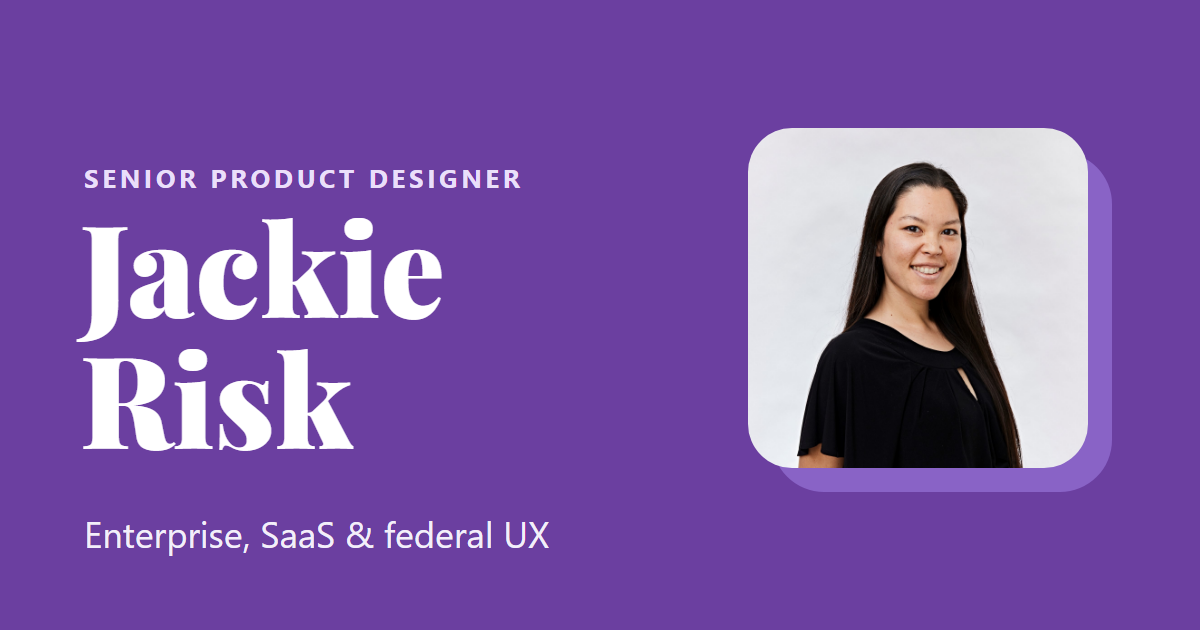
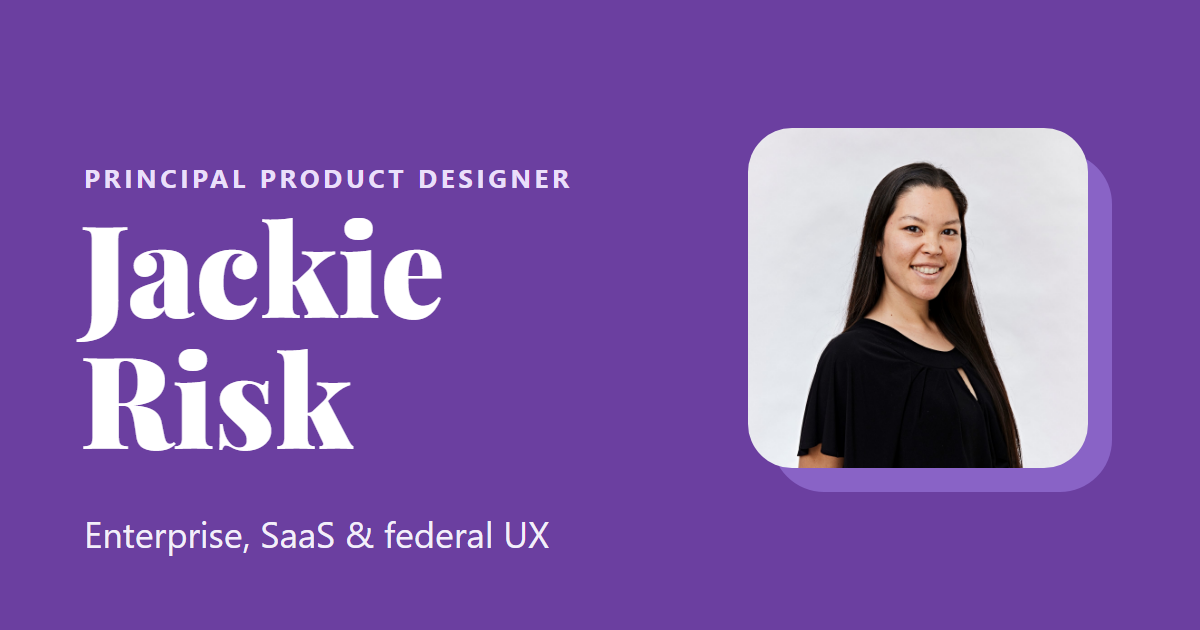
Update title to Principal Product Designer everywhere; restore Behance link
- Change the title across page titles, meta and Open Graph tags,
  structured data, the About page, llms.txt, the Pingboard role, and the
  link-preview image.
- Restore the Behance link under the case studies without a lead-in line.

Changed region(s): [[0.0617, 0.2714, 0.4933, 0.3016]]

diff --git a/index.html b/index.html
@@ -3,8 +3,8 @@
 <head>
   <meta charset="UTF-8">
   <meta name="viewport" content="width=device-width, initial-scale=1.0">
-  <title>Jackie Risk | Senior Product Designer</title>
-  <meta name="description" content="Jackie Risk is a Senior Product Designer with 10 years of experience leading end-to-end UX across SaaS, enterprise, and federal platforms.">
+  <title>Jackie Risk | Principal Product Designer</title>
+  <meta name="description" content="Jackie Risk is a Principal Product Designer with 10 years of experience leading end-to-end UX across SaaS, enterprise, and federal platforms.">
 
   <meta name="author" content="Jackie Risk">
   <link rel="canonical" href="https://jackierisk.github.io/portfolio/">
@@ -12,11 +12,11 @@
   <!-- Open Graph tags: control how this page looks when shared on LinkedIn, Slack, etc. -->
   <meta property="og:site_name" content="Jackie Risk">
   <meta property="og:type" content="website">
-  <meta property="og:title" content="Jackie Risk | Senior Product Designer">
-  <meta property="og:description" content="Jackie Risk is a Senior Product Designer with 10 years of experience leading end-to-end UX across SaaS, enterprise, and federal platforms.">
+  <meta property="og:title" content="Jackie Risk | Principal Product Designer">
+  <meta property="og:description" content="Jackie Risk is a Principal Product Designer with 10 years of experience leading end-to-end UX across SaaS, enterprise, and federal platforms.">
   <meta property="og:url" content="https://jackierisk.github.io/portfolio/">
   <meta property="og:image" content="https://jackierisk.github.io/portfolio/assets/images/og-home.png">
-  <meta property="og:image:alt" content="Jackie Risk, Senior Product Designer, enterprise, SaaS and federal UX">
+  <meta property="og:image:alt" content="Jackie Risk, Principal Product Designer, enterprise, SaaS and federal UX">
   <meta name="twitter:card" content="summary_large_image">
 
   <link rel="stylesheet" href="assets/css/style.css">
@@ -30,10 +30,10 @@
         "@type": "Person",
         "@id": "https://jackierisk.github.io/portfolio/#person",
         "name": "Jackie Risk",
-        "jobTitle": "Senior Product Designer",
+        "jobTitle": "Principal Product Designer",
         "url": "https://jackierisk.github.io/portfolio/",
         "image": "https://jackierisk.github.io/portfolio/assets/images/profile-square.jpg",
-        "description": "Senior Product Designer with 10 years of experience leading end-to-end UX across SaaS, enterprise, and federal platforms.",
+        "description": "Principal Product Designer with 10 years of experience leading end-to-end UX across SaaS, enterprise, and federal platforms.",
         "worksFor": { "@type": "Organization", "name": "Workleap", "url": "https://workleap.com" },
         "alumniOf": [
           { "@type": "Organization", "name": "EAGLE6" },
@@ -130,6 +130,8 @@
             <span class="case-card-link">Read case study →</span>
           </div>
         </a>
+
+        <p class="more-work"><a href="https://www.behance.net/jrisk" target="_blank" rel="noopener">View additional case studies on Behance ↗</a></p>
     </section>
 
   </main>

diff --git a/about.html b/about.html
@@ -4,17 +4,17 @@
   <meta charset="UTF-8">
   <meta name="viewport" content="width=device-width, initial-scale=1.0">
   <title>Jackie Risk | About</title>
-  <meta name="description" content="About Jackie Risk: Senior Product Designer at Workleap and former Principal Product Designer at EAGLE6, focused on SaaS, enterprise, and federal UX.">
+  <meta name="description" content="About Jackie Risk: Principal Product Designer at Workleap, previously Principal Product Designer at EAGLE6, focused on SaaS, enterprise, and federal UX.">
   <meta name="author" content="Jackie Risk">
   <link rel="canonical" href="https://jackierisk.github.io/portfolio/about.html">
 
   <meta property="og:site_name" content="Jackie Risk">
   <meta property="og:type" content="profile">
   <meta property="og:title" content="Jackie Risk | About">
-  <meta property="og:description" content="About Jackie Risk: Senior Product Designer at Workleap and former Principal Product Designer at EAGLE6, focused on SaaS, enterprise, and federal UX.">
+  <meta property="og:description" content="About Jackie Risk: Principal Product Designer at Workleap, previously Principal Product Designer at EAGLE6, focused on SaaS, enterprise, and federal UX.">
   <meta property="og:url" content="https://jackierisk.github.io/portfolio/about.html">
   <meta property="og:image" content="https://jackierisk.github.io/portfolio/assets/images/og-home.png">
-  <meta property="og:image:alt" content="Jackie Risk, Senior Product Designer, enterprise, SaaS and federal UX">
+  <meta property="og:image:alt" content="Jackie Risk, Principal Product Designer, enterprise, SaaS and federal UX">
   <meta name="twitter:card" content="summary_large_image">
 
   <link rel="stylesheet" href="assets/css/style.css">
@@ -55,7 +55,7 @@
     <section class="about wrap">
       <div class="about-text">
         <p>
-          Jackie is a Senior Product Designer with 10 years of experience leading end-to-end UX
+          Jackie is a Principal Product Designer with 10 years of experience leading end-to-end UX
           across SaaS, enterprise, and federal platforms.
         </p>
         <p>

diff --git a/contact.html b/contact.html
@@ -4,17 +4,17 @@
   <meta charset="UTF-8">
   <meta name="viewport" content="width=device-width, initial-scale=1.0">
   <title>Jackie Risk | Contact</title>
-  <meta name="description" content="Contact Jackie Risk, Senior Product Designer, about product design roles, collaborations, and questions about her work.">
+  <meta name="description" content="Contact Jackie Risk, Principal Product Designer, about product design roles, collaborations, and questions about her work.">
   <meta name="author" content="Jackie Risk">
   <link rel="canonical" href="https://jackierisk.github.io/portfolio/contact.html">
 
   <meta property="og:site_name" content="Jackie Risk">
   <meta property="og:type" content="website">
   <meta property="og:title" content="Jackie Risk | Contact">
-  <meta property="og:description" content="Contact Jackie Risk, Senior Product Designer, about product design roles, collaborations, and questions about her work.">
+  <meta property="og:description" content="Contact Jackie Risk, Principal Product Designer, about product design roles, collaborations, and questions about her work.">
   <meta property="og:url" content="https://jackierisk.github.io/portfolio/contact.html">
   <meta property="og:image" content="https://jackierisk.github.io/portfolio/assets/images/og-home.png">
-  <meta property="og:image:alt" content="Jackie Risk, Senior Product Designer, enterprise, SaaS and federal UX">
+  <meta property="og:image:alt" content="Jackie Risk, Principal Product Designer, enterprise, SaaS and federal UX">
   <meta name="twitter:card" content="summary_large_image">
 
   <link rel="stylesheet" href="assets/css/style.css">

diff --git a/case-studies/workleap.html b/case-studies/workleap.html
@@ -44,7 +44,7 @@
       <div class="case-meta">
         <div>
           <strong>Role</strong>
-          Senior Product Designer, co-lead
+          Principal Product Designer, co-lead
         </div>
         <div>
           <strong>Timeline</strong>
@@ -52,7 +52,7 @@
         </div>
         <div>
           <strong>Team</strong>
-          Two Senior Product Designers and a Senior Design Manager, with no dedicated PM
+          A Principal Product Designer, a Senior Product Designer, and a Senior Design Manager, with no dedicated PM
         </div>
         <div>
           <strong>Scope</strong>

diff --git a/assets/css/style.css b/assets/css/style.css
@@ -190,10 +190,15 @@ textarea:focus-visible {
   margin: 16px 0 0;
 }
 
-.hero-links a {
+.hero-links a,
+.more-work a {
   color: var(--color-accent);
   font-weight: 600;
   text-decoration: underline;
+}
+
+.more-work {
+  margin: 12px 0 0;
 }
 
 .hero-photo {

diff --git a/case-studies/pingboard-migration.html b/case-studies/pingboard-migration.html
@@ -59,7 +59,7 @@
       <div class="case-meta">
         <div>
           <strong>Role</strong>
-          Senior Product Designer, Pingboard
+          Principal Product Designer, Pingboard
         </div>
         <div>
           <strong>Timeline</strong>
